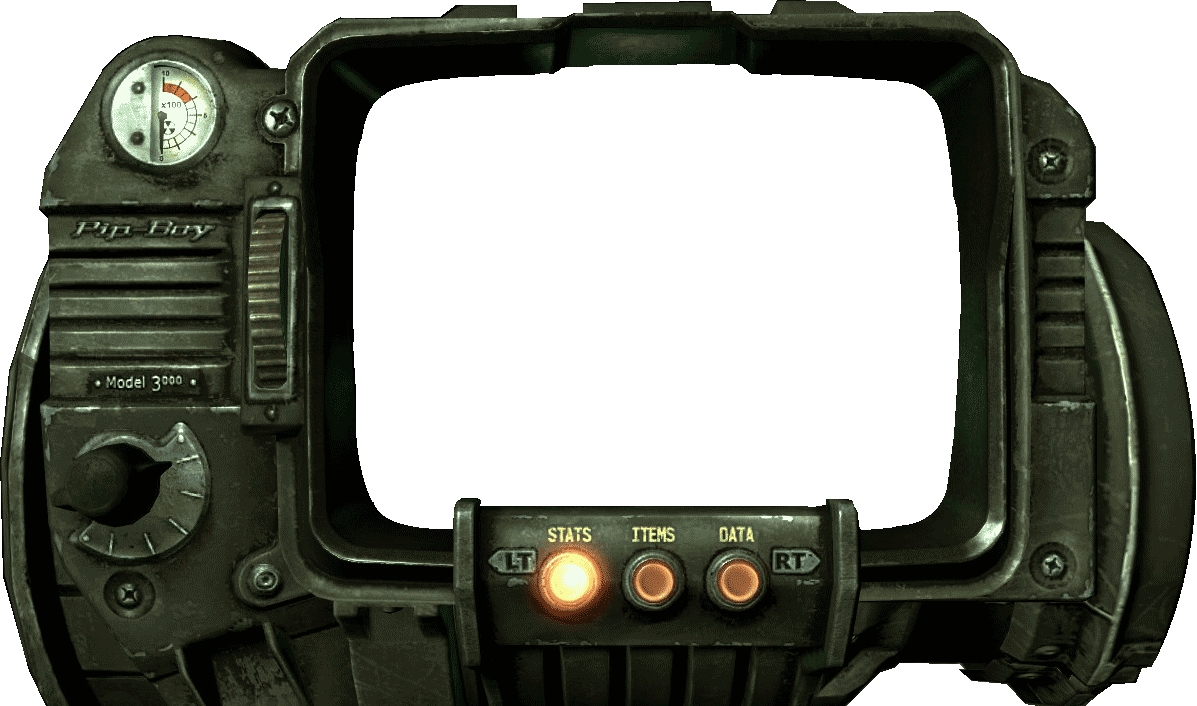
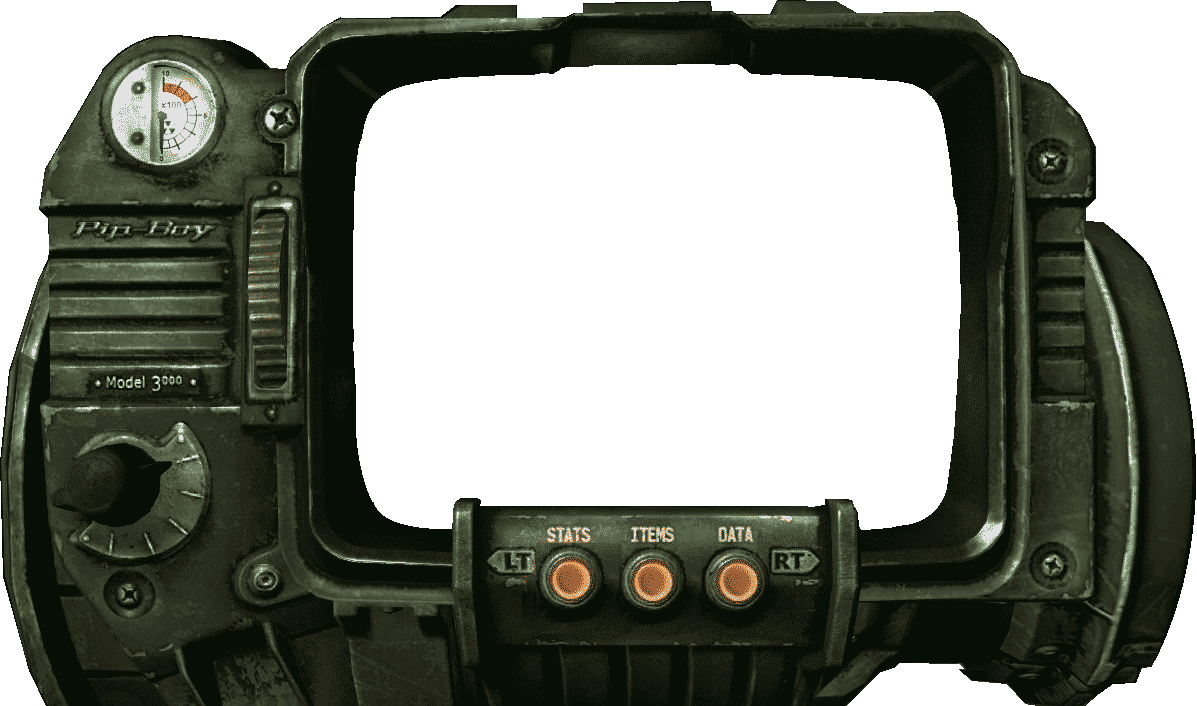
添加底部按钮样式

diff --git a/displayStyle.css b/displayStyle.css
@@ -16,6 +16,7 @@
 	height: 60px;
 	border-radius: 70px;
 	margin: 10px;
+	background-image: url(images/btn.png);
 }
 
 #display{
